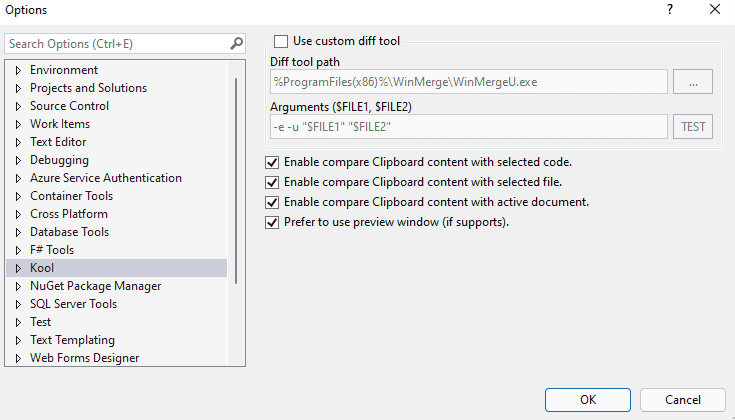
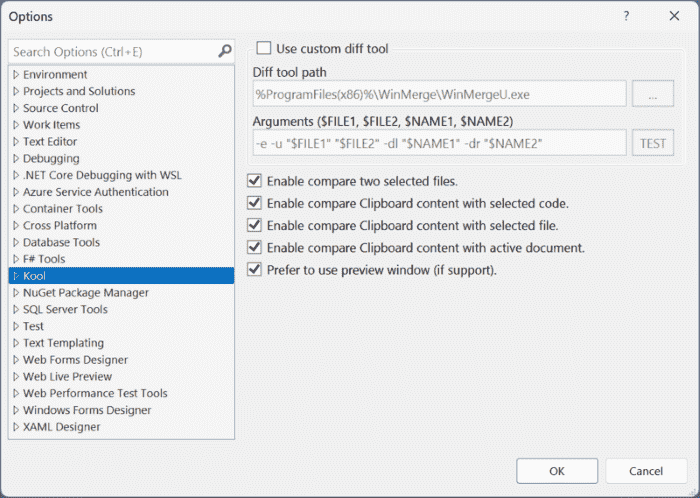
Fixed some options not work after restart VS and allow disable compare selected files menu

Changed region(s): [[0.0, 0.0, 1.0, 1.0], [0.87, 0.1548, 0.96, 0.2167]]

diff --git a/Kool.VsDiff.Shared/Pages/VsDiffOptionsPage.xaml b/Kool.VsDiff.Shared/Pages/VsDiffOptionsPage.xaml
@@ -38,6 +38,7 @@
         </Grid>
       </StackPanel>
     </GroupBox>
+    <CheckBox Margin="0,5,0,0" IsChecked="{Binding DiffSelectedFilesEnabled}" Content="{x:Static kv:I18n.OptionsPage_EnableDiffSelectedFiles}" />
     <CheckBox Margin="0,5,0,0" IsChecked="{Binding DiffClipboardWithCodeEnabled}" Content="{x:Static kv:I18n.OptionsPage_EnableDiffClipboardWithCode}" />
     <CheckBox Margin="0,5,0,0" IsChecked="{Binding DiffClipboardWithFileEnabled}" Content="{x:Static kv:I18n.OptionsPage_EnableDiffClipboardWithFile}" />
     <CheckBox Margin="0,5,0,0" IsChecked="{Binding DiffClipboardWithDocumentEnabled}" Content="{x:Static kv:I18n.OptionsPage_EnableDiffClipboardWithDocument}" />

diff --git a/Kool.VsDiff.Shared/Pages/VsDiffOptions.cs b/Kool.VsDiff.Shared/Pages/VsDiffOptions.cs
@@ -20,6 +20,7 @@ internal sealed class VsDiffOptions : UIElementDialogPage
     public string CustomDiffToolPath { get; set; }
     public string CustomDiffToolArgs { get; set; }
 
+    public bool DiffSelectedFilesEnabled { get; set; }
     public bool DiffClipboardWithCodeEnabled { get; set; }
     public bool DiffClipboardWithFileEnabled { get; set; }
     public bool DiffClipboardWithDocumentEnabled { get; set; }
@@ -35,12 +36,18 @@ internal sealed class VsDiffOptions : UIElementDialogPage
 
     protected override void OnApply(PageApplyEventArgs e)
     {
-        DiffClipboardWithCodeCommand.Instance.Turn(DiffClipboardWithCodeEnabled);
-        DiffClipboardWithFileCommand.Instance.Turn(DiffClipboardWithFileEnabled);
-        DiffClipboardWithDocumentCommand.Instance.Turn(DiffClipboardWithDocumentEnabled);
+        RefreshCommandsState();
         DiffToolFactory.ClearCache();
 
         base.OnApply(e);
+    }
+
+    public void RefreshCommandsState()
+    {
+        DiffSelectedFilesCommand.Instance.Turn(DiffSelectedFilesEnabled);
+        DiffClipboardWithCodeCommand.Instance.Turn(DiffClipboardWithCodeEnabled);
+        DiffClipboardWithFileCommand.Instance.Turn(DiffClipboardWithFileEnabled);
+        DiffClipboardWithDocumentCommand.Instance.Turn(DiffClipboardWithDocumentEnabled);
     }
 
     protected override void OnClosed(EventArgs e)
@@ -61,6 +68,7 @@ internal sealed class VsDiffOptions : UIElementDialogPage
         UseCustomDiffTool = false;
         CustomDiffToolPath = @"%ProgramFiles(x86)%\WinMerge\WinMergeU.exe";
         CustomDiffToolArgs = "-e -u \"$FILE1\" \"$FILE2\" -dl \"$NAME1\" -dr \"$NAME2\"";
+        DiffSelectedFilesEnabled = true;
         DiffClipboardWithCodeEnabled = true;
         DiffClipboardWithFileEnabled = true;
         DiffClipboardWithDocumentEnabled = true;

diff --git a/Kool.VsDiff.Linked/I18n.Designer.cs b/Kool.VsDiff.Linked/I18n.Designer.cs
@@ -21,6 +21,7 @@ namespace Kool.VsDiff
         public static string OptionsPage_EnableDiffClipboardWithCode { get; } = Resx.GetString("OptionsPage_EnableDiffClipboardWithCode");
         public static string OptionsPage_EnableDiffClipboardWithDocument { get; } = Resx.GetString("OptionsPage_EnableDiffClipboardWithDocument");
         public static string OptionsPage_EnableDiffClipboardWithFile { get; } = Resx.GetString("OptionsPage_EnableDiffClipboardWithFile");
+        public static string OptionsPage_EnableDiffSelectedFiles { get; } = Resx.GetString("OptionsPage_EnableDiffSelectedFiles");
         public static string OptionsPage_PreferToUsePreviewWindow { get; } = Resx.GetString("OptionsPage_PreferToUsePreviewWindow");
         public static string OptionsPage_TestButtonContent { get; } = Resx.GetString("OptionsPage_TestButtonContent");
         public static string OptionsPage_UseCustomDiffTool { get; } = Resx.GetString("OptionsPage_UseCustomDiffTool");

diff --git a/Kool.VsDiff.Shared/Models/VS.cs b/Kool.VsDiff.Shared/Models/VS.cs
@@ -91,10 +91,7 @@ internal static class VS
                 {
                     continue;
                 }
-                if (files == null)
-                {
-                    files = new List<NameFile>();
-                }
+                files ??= new List<NameFile>();
                 files.Add(new NameFile { Name = item.ProjectItem.Name, File = file });
             }
             return files ?? GetSelectedFilesInsideFolderView();

diff --git a/Kool.VsDiff.Shared/Package.cs b/Kool.VsDiff.Shared/Package.cs
@@ -48,6 +48,8 @@ public sealed class Package : AsyncPackage
         CommandService.AddCommand(DiffClipboardWithFileCommand.Instance);
         CommandService.AddCommand(DiffClipboardWithDocumentCommand.Instance);
 
-        Debug.WriteLine("Package is sited and initialized.");
+        Options.RefreshCommandsState();
+
+        Debug.WriteLine(NAME + " Package is initialized.");
     }
 }
